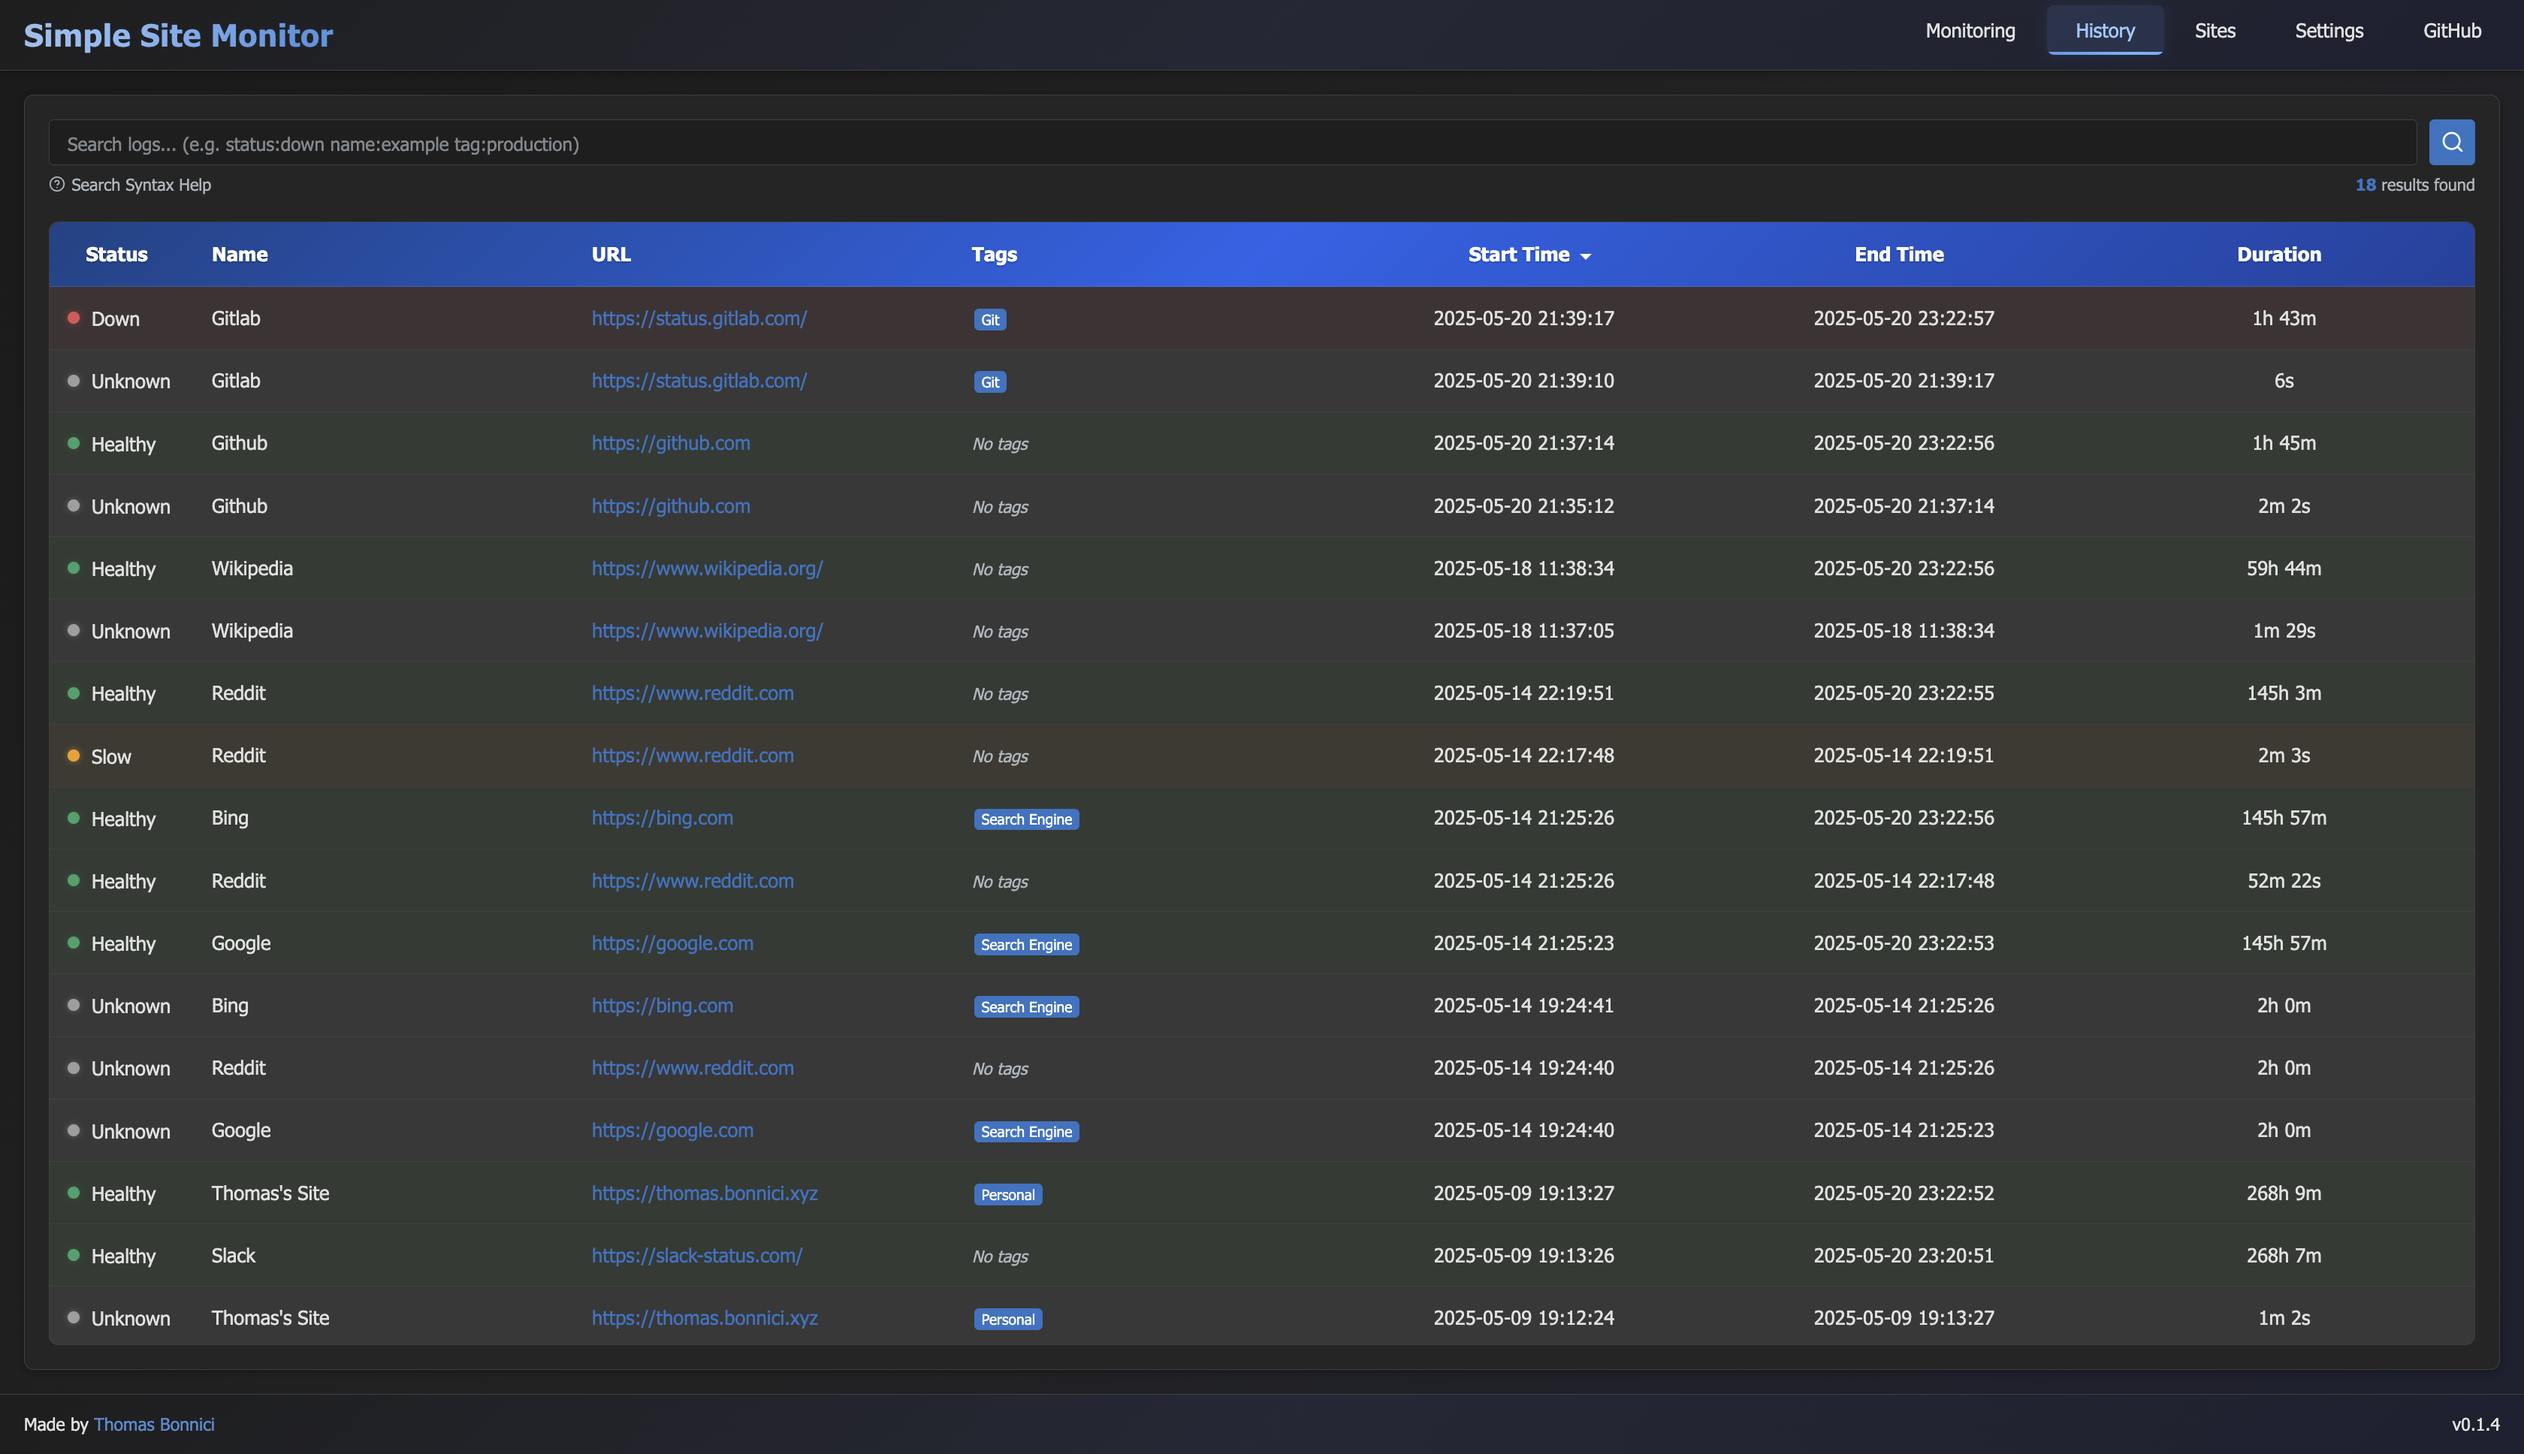
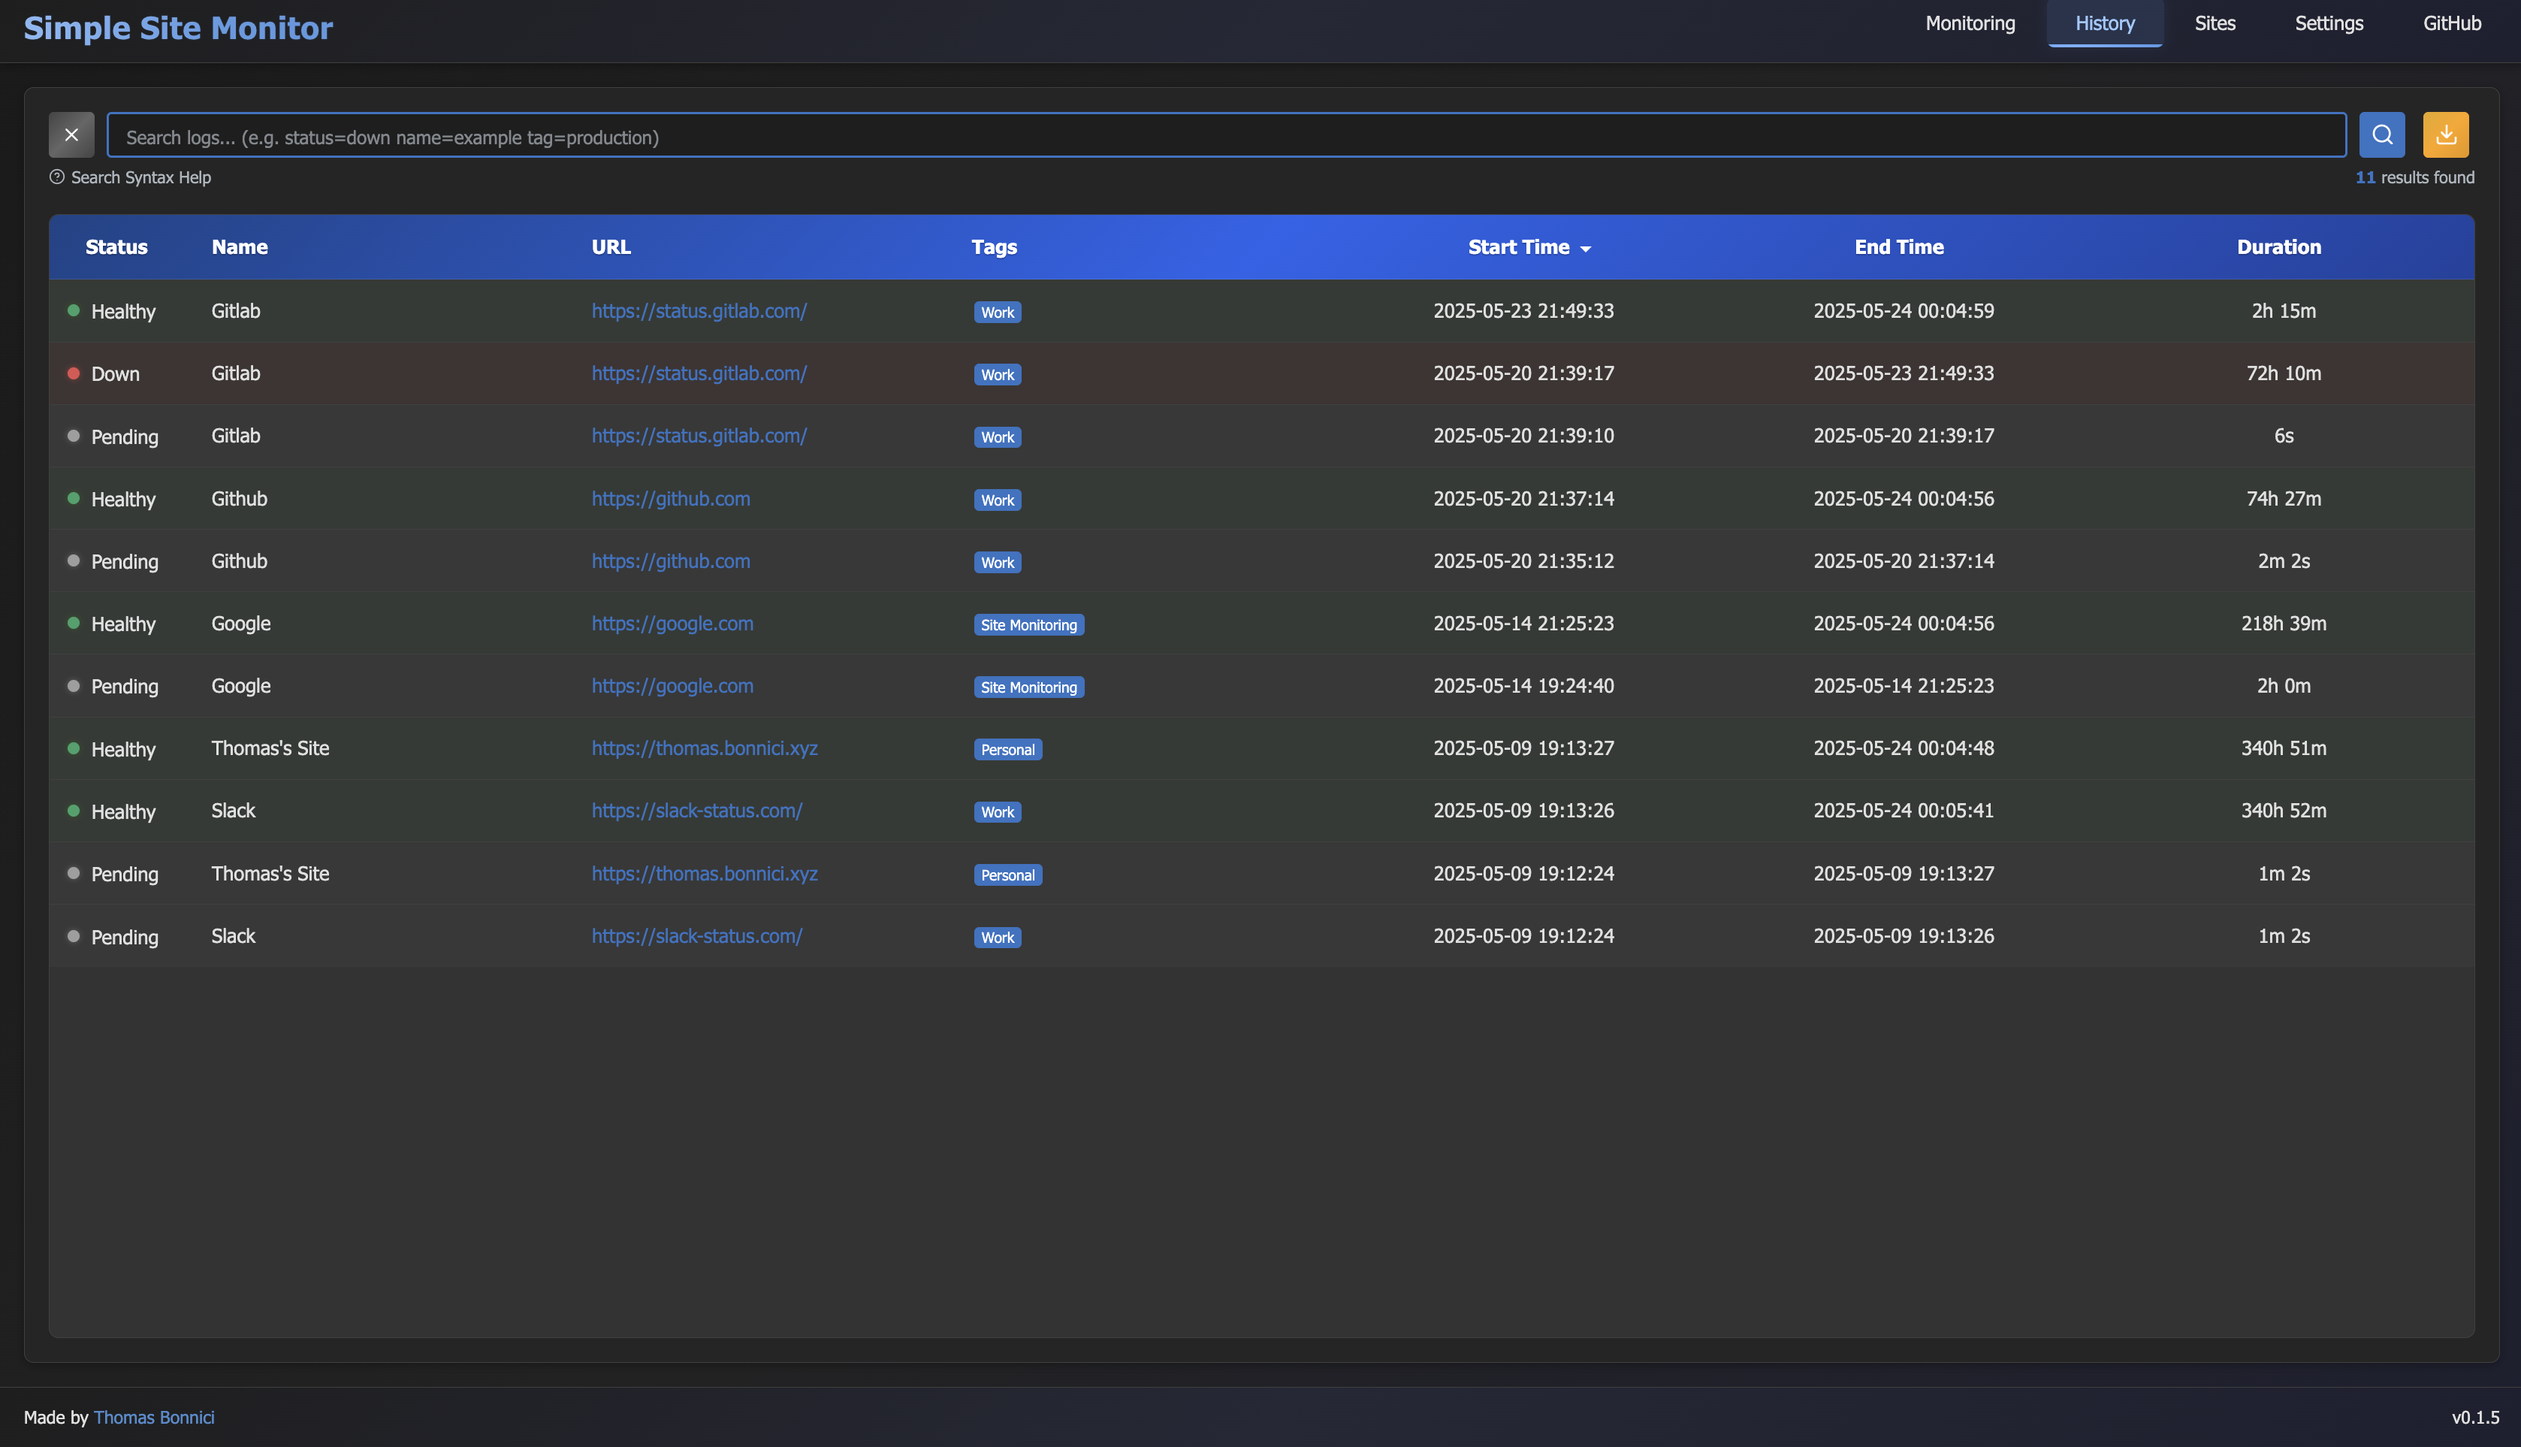
Version control and readme update for v0.1.5

diff --git a/templates/layout.html b/templates/layout.html
@@ -27,7 +27,7 @@
         </main>
         <footer>
             <p class="author">Made by <a href="https://thomas.bonnici.xyz" target="_blank">Thomas Bonnici</a></p>
-            <p class="version">v0.1.4</p>
+            <p class="version">v0.1.5</p>
         </footer>
     </div>
     

diff --git a/main.py b/main.py
@@ -7,7 +7,7 @@ import models.models as models
 app = FastAPI(
     title="Simple Site Monitor",
     description="A simple site monitor for monitoring website availability and performance",
-    version="0.1.4"
+    version="0.1.5"
 )
 
 models.Base.metadata.create_all(bind=engine)

diff --git a/changelog.md b/changelog.md
@@ -1,8 +1,15 @@
 # Simple Site Monitor
 
+## v0.1.5 - History Page Beef Up
+### UI
+- [#14] Added `Export` button yp History page
+- [#20] Improved query search with datetime and UI improvements
+
+
 ## v0.1.4 - Frontend updates and bug fixes
 ### UI
 - [#13] Interface Improvements and history page table fix
+
 
 ## v0.1.3 - Added Tags, UI Table Improvement and Bug Fixes
 ### UI
